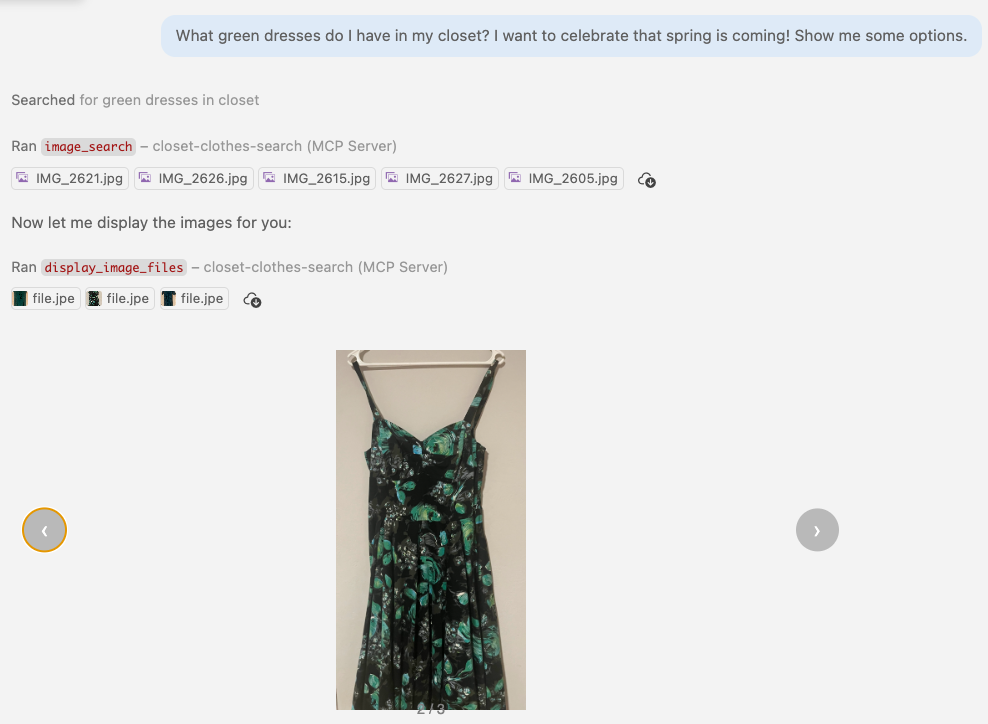
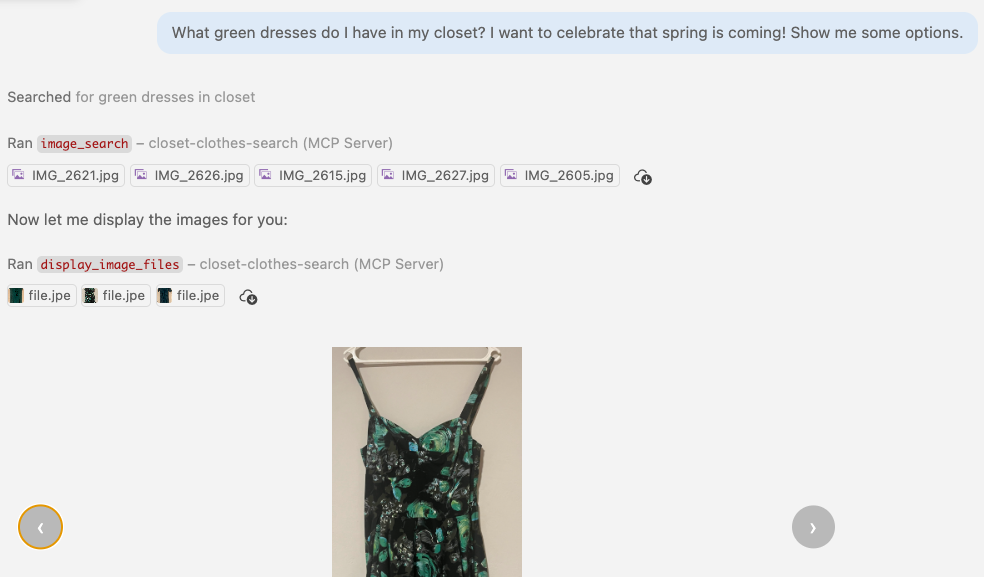
Latest changes

diff --git a/docs/index.html b/docs/index.html
@@ -53,12 +53,14 @@
 			font-family: 'Work Sans', sans-serif;
 		}
 
-		/* Links in neon pink */
+		/* Links in black */
 		.reveal a {
-			color: var(--neon-pink);
+			color: #000;
+			text-decoration: underline;
 		}
 		.reveal a:hover {
-			color: var(--neon-cyan);
+			color: #000;
+			background: var(--neon-pink-light);
 		}
 
 		/* Section heading slides: white background with decorations, centered */
@@ -128,9 +130,10 @@
 			background: rgb(245, 245, 245);
 		}
 
-		/* Slide number in neon pink */
+		/* Slide number in black */
 		.reveal .slide-number {
-			color: var(--neon-pink);
+			color: #000;
+			background: var(--neon-pink-light);
 		}
 
 		/* Body text stays dark */
@@ -144,19 +147,19 @@
         <div class="slides">
 
 <!-- Title slide -->
-<section class="heading-only" style="padding-top:5%">
+<section class="heading-only">
     <h1 style="font-size:2.2em;">Improving MCP tool schemas<br> to increase agent reliability</h1>
     <br>
     <h3>Pamela Fox</h3>
-    <p style="color: var(--neon-pink-light); font-size: 0.8em;"><a target="_blank" href="https://www.pamelafox.org" style="color: var(--neon-pink-light);">pamelafox.org</a></p>
+    <p style="font-size: 0.8em;"><a target="_blank" href="https://www.pamelafox.org">pamelafox.org</a></p>
 </section>
 
 <section>
     <h3>But first... let's have fun with MCP!</h3>
     <p>What if I could use MCP to pick my outfit for today?</p>
-    <img src="closet_mcp.png" alt="An MCP server searching clothes images and rendering in VS Code Copilot" height="500" style="border:1px solid #ccc">
-    <p>What if I <em>DID</em> use MCP to pick my outfit for today...?</p>
-    <aside class="notes">
+    <img src="closet_mcp.png" alt="An MCP server searching clothes images and rendering in VS Code Copilot" height="380" style="border:1px solid #ccc; margin: 0px;">
+	<p><a target="_blank" href="https://github.com/Azure-Samples/image-search-aisearch/">github.com/Azure-Samples/image-search-aisearch</a></p>
+	<aside class="notes">
         Demo it in VS Code. Now that the outfit is sorted.. on to the real talk!
     </aside>
 </section>
@@ -937,12 +940,12 @@ await session.send_and_wait({"prompt": "I bought a sandwich for $12.50."})
 </section>
 
 <!-- SECTION: Output schemas -->
-<section class="heading-only">
+<section class="heading-only hidden">
     <h2>Tools have return schemas too!</h2>
 </section>
 
 <!-- Return a plain string -->
-<section>
+<section class="hidden">
     <h3>Return a plain string</h3>
     <div style="display: flex; gap: 0; align-items: stretch;">
         <div style="flex: 1; display: flex; flex-direction: column;">
@@ -1014,7 +1017,7 @@ def get_expenses_b() -> list[dict]:
 -->
 
 <!-- Return a list of Pydantic models -->
-<section>
+<section class="hidden">
     <h3>Return a list of Pydantic models</h3>
     <div style="display: flex; gap: 0; align-items: stretch;">
         <div style="flex: 1; display: flex; flex-direction: column;">
@@ -1061,7 +1064,7 @@ def get_expenses_c() -> list[Expense]:
     </aside>
 </section>
 
-<section class="heatmap-slide">
+<section class="heatmap-slide hidden">
     <h3>Evals: Which output schema did best?</h3>
     <p style="font-size: 0.7em;">gpt-5.3-codex, 7 cases for each schema, with a Pydantic-AI agent:</p>
     <div style="display: flex; gap: 20px;">

diff --git a/servers/basic_server.py b/servers/basic_server.py
@@ -3,6 +3,7 @@ import logging
 import os
 from pathlib import Path
 
+import logfire
 from fastmcp import FastMCP
 
 logging.basicConfig(level=logging.WARNING, format="%(asctime)s - %(message)s")
@@ -14,6 +15,13 @@ EXPENSES_FILE = Path(os.getenv("EXPENSES_FILE", SCRIPT_DIR / "expenses.csv"))
 CSV_FIELDNAMES = ["date", "amount", "category", "description"]
 
 mcp = FastMCP("Expenses Tracker")
+
+# Configure Logfire tracing if LOGFIRE_TOKEN is set
+# Reference: https://logfire.pydantic.dev/docs/integrations/llms/mcp/
+if os.getenv("LOGFIRE_TOKEN"):
+    logger.info("Setting up Logfire instrumentation")
+    logfire.configure(service_name="basic-expenses-mcp")
+    logfire.instrument_mcp()
 
 
 @mcp.tool
